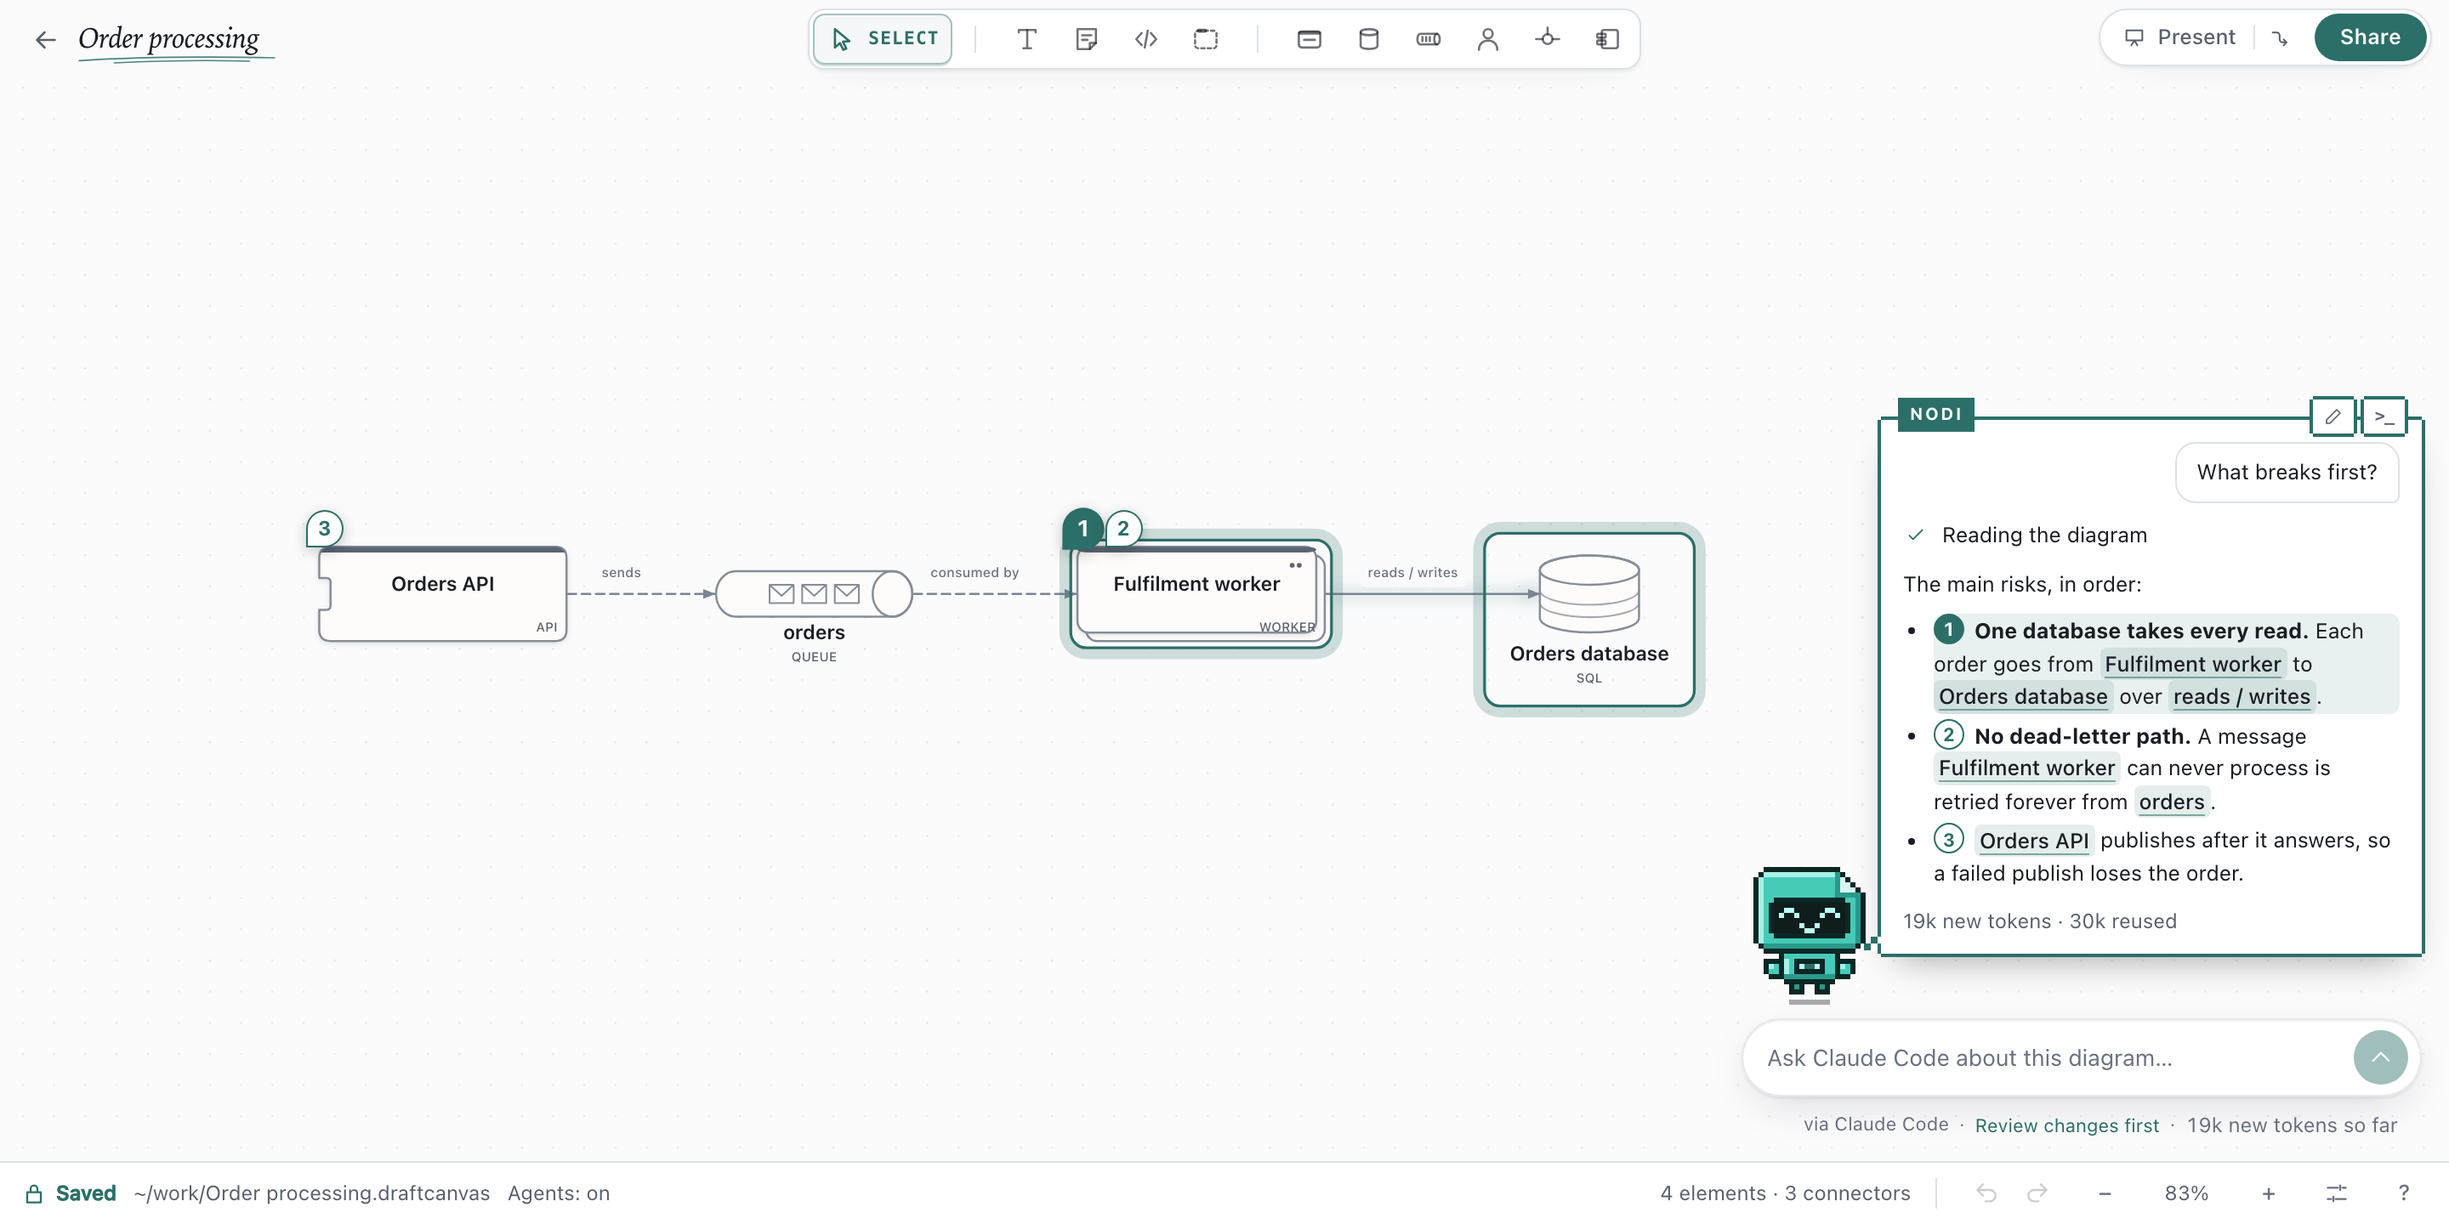
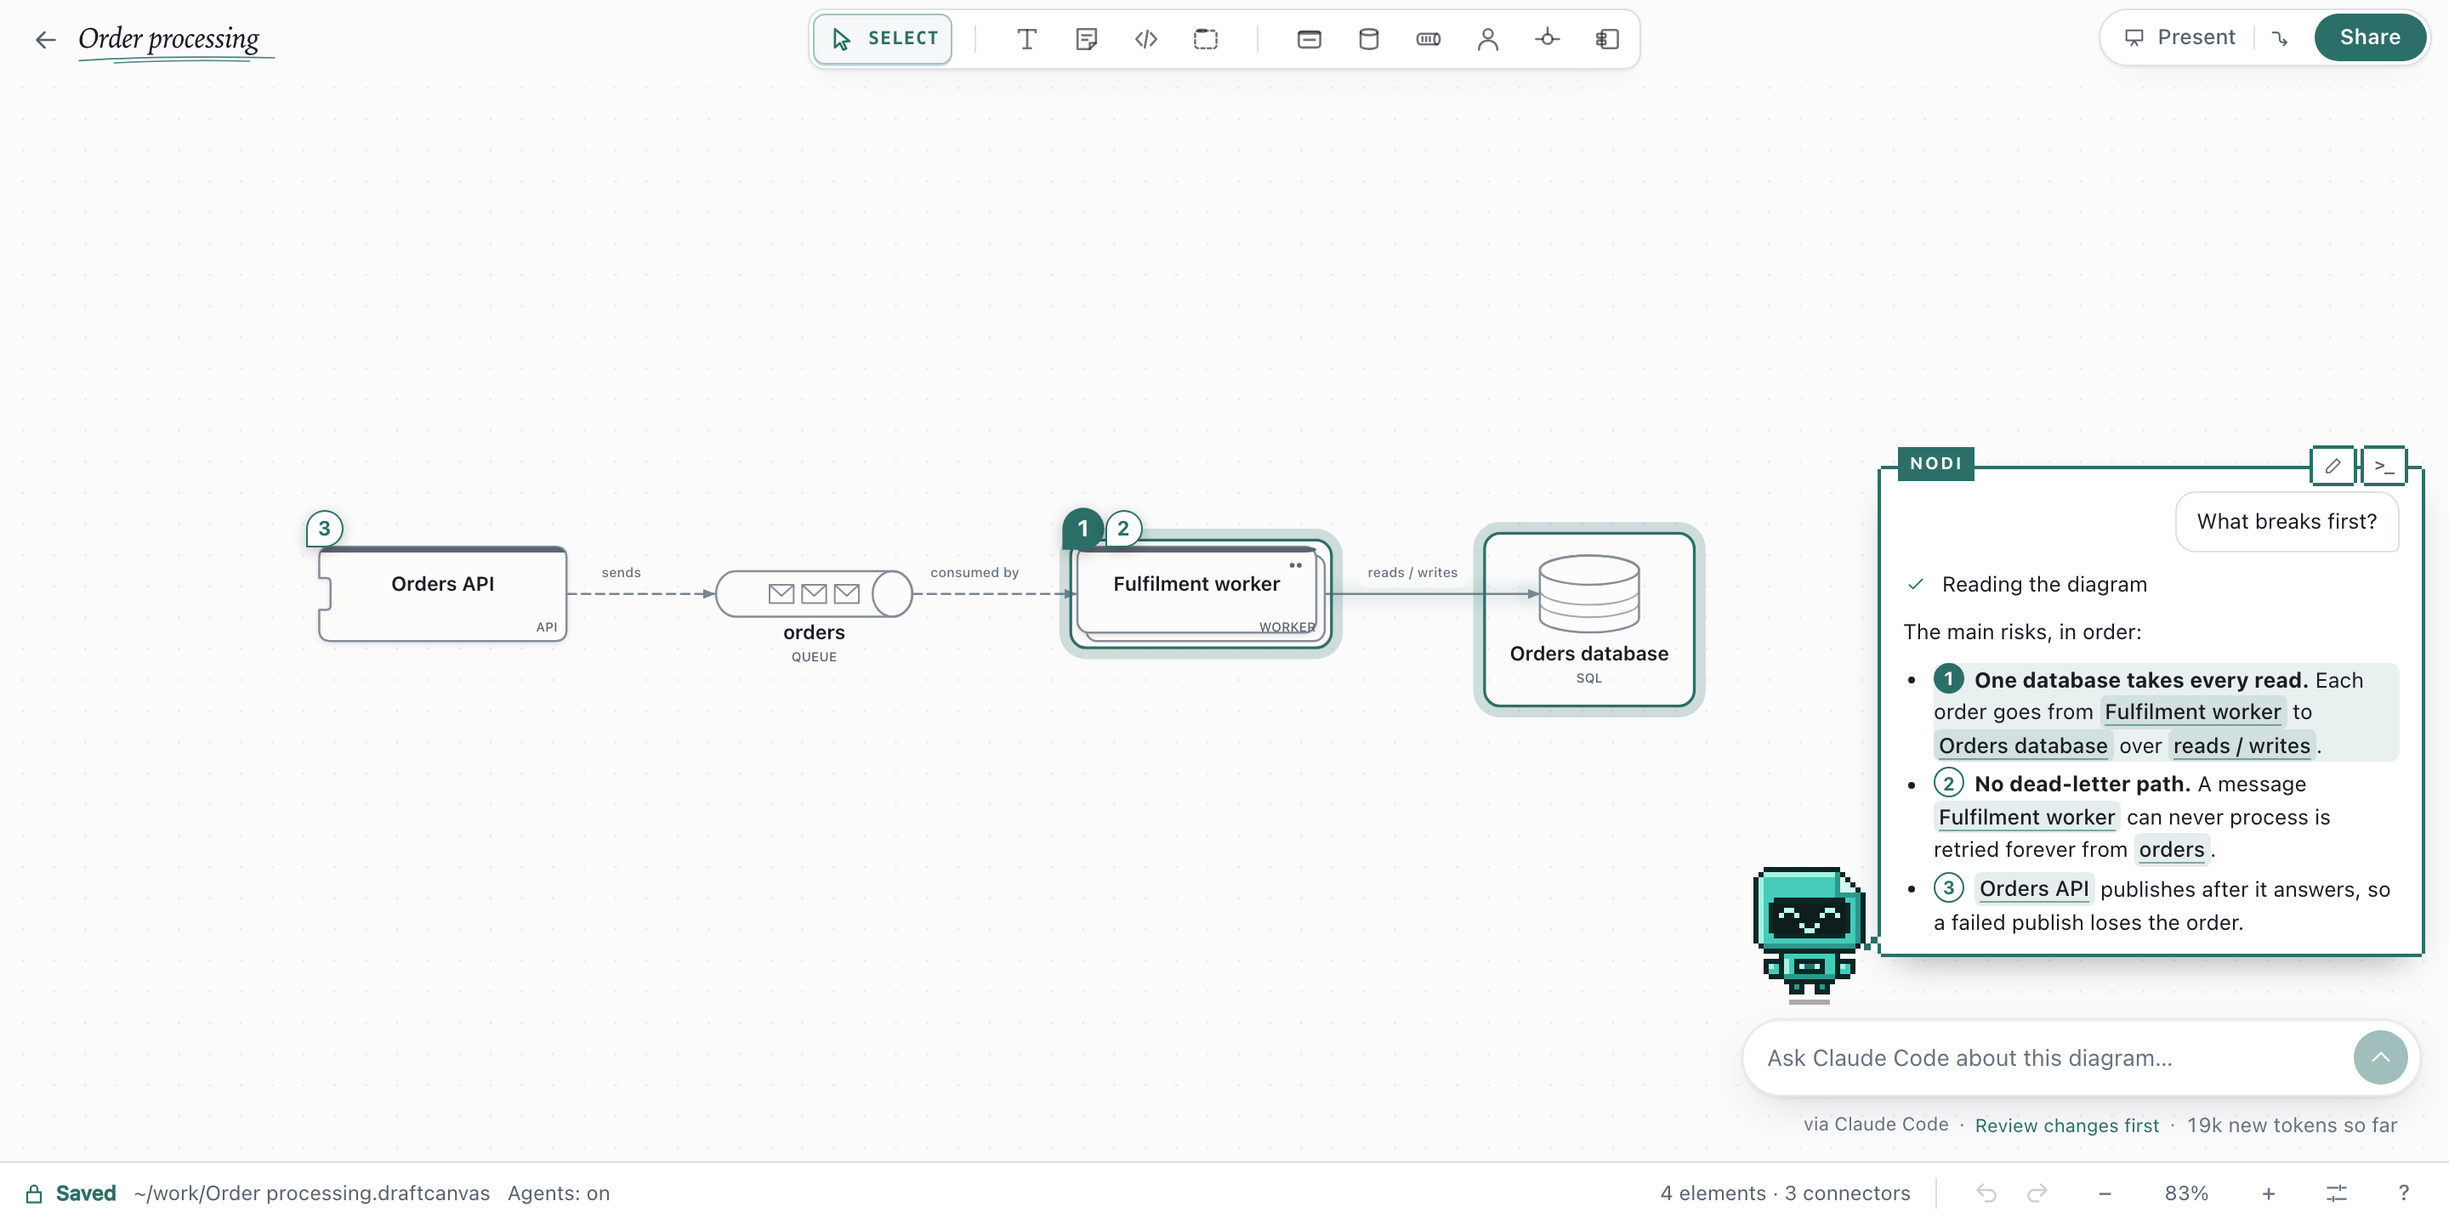
Show Nodi's token use once, and its conversation actions after an answer
The conversation's running total under the message box is the one token
line; the per-turn line in the bubble only repeated it. Its tooltip says
what cached re-reads are: billed at a discount, not free, and still counted
toward a plan's usage ("reused" read as free).

New conversation and Continue in Terminal appear once the agent has answered
and not while it works: before that, two disabled icons only drew the eye.

Changed region(s): [[0.7812, 0.4688, 0.9688, 0.7812], [0.875, 0.3125, 1.0, 0.4375], [0.75, 0.3125, 0.8125, 0.4062]]

diff --git a/src/desktop/ui/Companion.tsx b/src/desktop/ui/Companion.tsx
@@ -10,7 +10,7 @@ import type { DraftEdge, DraftNode } from '../../document/types';
 import { useEditorStore } from '../../store/editorStore';
 import { useUiStore } from '../../store/uiStore';
 import type { AgentInfo, ApplyMode, PromptRequest, Proposal } from '../api';
-import { companion, newTokens, numberedBlocks, replyBlocks, replyOf, replyPoints, spentOn, stepText, stopMessage, tokenCount, usageText, type ReplyEntry, type Spent, type Turn } from '../companion';
+import { companion, newTokens, numberedBlocks, replyBlocks, replyOf, replyPoints, spentOn, stepText, stopMessage, tokenCount, type ReplyEntry, type Spent, type Turn } from '../companion';
 import { useDesktopController, useDesktopState } from '../useDesktop';
 import { Mascot } from './mascot/Mascot';
 import type { Mood } from './mascot/pixels';
@@ -441,16 +441,17 @@ export function Companion() {
           <span className="dc-companion-say-name" aria-hidden="true">
             Nodi
           </span>
-          {talking && (
+          {/* Once the agent has answered and while it isn't working: before that there is nothing to
+              start over or carry on, and two disabled icons only drew the eye. */}
+          {talking && !running && (
             <span className="dc-companion-speech-tools">
-              <button type="button" aria-label="New conversation" title="New conversation" disabled={running} onClick={() => void controller.companionForget(diagramId)}>
+              <button type="button" aria-label="New conversation" title="New conversation" onClick={() => void controller.companionForget(diagramId)}>
                 <Icon name="pencil" />
               </button>
               <button
                 type="button"
                 aria-label="Continue in Terminal"
                 title={`Continue in Terminal: copies a command that reopens this conversation in ${agentName}`}
-                disabled={running}
                 onClick={() => void continueInTerminal()}
               >
                 <span className="dc-companion-prompt" aria-hidden="true">
@@ -497,7 +498,7 @@ export function Companion() {
                   </button>
                 )}
                 {turns.slice(folded).map((turn) => (
-                  <TurnView key={turn.runId} turn={turn} showsCost={showsCost} pinned={turn === last} />
+                  <TurnView key={turn.runId} turn={turn} pinned={turn === last} />
                 ))}
               </section>
               {continued && (
@@ -609,7 +610,7 @@ export function Companion() {
 }
 
 /** What the mascot says about the latest turn: the step it is on, then its reply as it streams in. */
-function TurnView({ turn, showsCost, pinned }: { turn: Turn; showsCost: boolean; pinned: boolean }) {
+function TurnView({ turn, pinned }: { turn: Turn; pinned: boolean }) {
   const reply = replyOf(turn);
   const stopped = stopMessage(turn.stop);
   return (
@@ -641,9 +642,6 @@ function TurnView({ turn, showsCost, pinned }: { turn: Turn; showsCost: boolean;
         </p>
       )}
       {turn.outcome === 'rejected' && <p className="dc-companion-stopped">Rejected. The diagram is unchanged.</p>}
-      {(turn.usage || (showsCost && turn.costMicroUsd !== null)) && (
-        <p className="dc-companion-cost">{[turn.usage && usageText(turn.usage), showsCost && turn.costMicroUsd !== null && dollars(turn.costMicroUsd)].filter(Boolean).join(' · ')}</p>
-      )}
     </article>
   );
 }
@@ -655,7 +653,13 @@ function SpentLine({ spent, showsCost }: { spent: Spent; showsCost: boolean }) {
   const fresh = tokenCount(newTokens(spent.usage));
   const cost = showsCost && spent.costMicroUsd !== null ? dollars(spent.costMicroUsd) : null;
   const turns = spent.turns === 1 ? '1 turn' : `${spent.turns} turns`;
-  const detail = `This conversation so far: ${fresh} new tokens over ${turns}${cached > 0 ? `, plus ${tokenCount(cached)} the agent read again from the cache (its instructions, the tools, the diagram, resent with every step), which costs about a tenth as much` : ''}.`;
+  // One line for the conversation, under the message box; a per-turn line in the bubble only said it
+  // again. What it leaves out, the cached re-reads, is told here as what it is: discounted, not free.
+  const detail =
+    `This conversation so far: ${fresh} new tokens over ${turns}.` +
+    (cached > 0
+      ? ` The agent also re-sent ${tokenCount(cached)} tokens it had already read (its instructions, the tools, the diagram), served from its provider's cache. Those are billed at a discount (about a tenth of the usual price with Claude), not free, and still count toward a plan's usage.`
+      : ''); 
   return (
     <span className="dc-companion-spent" title={detail}>
       <span className="dc-sr-only">{detail}</span>

diff --git a/tests/desktop/companion-ui.test.tsx b/tests/desktop/companion-ui.test.tsx
@@ -196,8 +196,10 @@ describe('the companion', () => {
       companion.apply('r1', { type: 'tool-call', id: 't1', tool: 'read_diagram', status: 'in-progress' });
     });
     expect(screen.getByRole('img', { name: 'Nodi, working' })).toBeTruthy();
-    // The bubble shows the turn as it goes: each step the agent takes.
+    // The bubble shows the turn as it goes: each step the agent takes, and no conversation actions yet.
     expect(screen.getByText('Reading the diagram')).toBeTruthy();
+    expect(screen.queryByRole('button', { name: 'New conversation' })).toBeNull();
+    expect(screen.queryByRole('button', { name: 'Continue in Terminal' })).toBeNull();
     fireEvent.click(screen.getByRole('button', { name: 'Stop' }));
     expect(controller.companionCancel).toHaveBeenCalledWith('r1');
 
@@ -210,6 +212,8 @@ describe('the companion', () => {
     // Advice reads as a list, with emphasis, never as raw markup.
     expect(screen.getAllByRole('listitem').map((li) => li.textContent)).toEqual(expect.arrayContaining(['Cache-aside: reads first', 'Invalidate on write']));
     expect(screen.getByText('Cache-aside').tagName).toBe('STRONG');
+    // Answered: now there is a conversation to start over or carry on.
+    expect(screen.getByRole('button', { name: 'New conversation' })).toBeTruthy();
     expect(screen.getByRole('img', { name: 'Nodi, waiting for you' })).toBeTruthy();
     expect(screen.getByRole('region', { name: 'Conversation with Claude Code' }).textContent).toMatch(/shown on the canvas/);
     await settle();
@@ -229,11 +233,12 @@ describe('the companion', () => {
     const total = document.querySelector('.dc-companion-spent')!;
     // What the conversation added: everything less what the agent read again from the cache.
     expect(total.textContent).toContain('33k new tokens so far');
-    expect(total.getAttribute('title')).toMatch(/33k new tokens over 2 turns, plus 76k the agent read again from the cache/);
+    expect(total.getAttribute('title')).toMatch(/33k new tokens over 2 turns\. The agent also re-sent 76k tokens it had already read/);
     // Signed in with a subscription: tokens, never a dollar figure that isn't what they pay.
     expect(total.textContent).not.toContain('$');
-    const lines = [...document.querySelectorAll('.dc-companion-turn .dc-companion-cost')].map((p) => p.textContent);
-    expect(lines).toEqual(['31k new tokens · 30k reused', '2.5k new tokens · 46k reused']);
+    // One line for it, not one per turn as well; the cache's share is explained, not hidden or made free.
+    expect(screen.getByRole('region', { name: 'Conversation with Claude Code' }).textContent).not.toMatch(/tokens/);
+    expect(total.getAttribute('title')).toMatch(/billed at a discount .*not free/);
   });
 
   it('shows the conversation whole in the bubble, folding all but the last two turns once it is long', async () => {

diff --git a/tests/desktop/companion.test.ts b/tests/desktop/companion.test.ts
@@ -1,6 +1,6 @@
 import { beforeEach, describe, expect, it } from 'vitest';
 import type { RunEvent } from '../../src/desktop/api';
-import { applyRunEvent, companion, newTokens, newTurn, numberedBlocks, partsIn, replyBlocks, replyOf, replyPoints, spentOn, stepText, stopMessage, tokenCount, usageText } from '../../src/desktop/companion';
+import { applyRunEvent, companion, newTokens, newTurn, numberedBlocks, partsIn, replyBlocks, replyOf, replyPoints, spentOn, stepText, stopMessage, tokenCount } from '../../src/desktop/companion';
 import { frame, HEIGHT, ROWS, WIDTH } from '../../src/desktop/ui/mascot/pixels';
 import { createHarness } from './harness';
 
@@ -177,8 +177,6 @@ describe('what a conversation uses', () => {
   it('reads at a glance', () => {
     expect([640, 4_800, 4_000, 48_169, 999_999, 1_200_000, 3_000_000].map(tokenCount)).toEqual(['640', '4.8k', '4k', '48k', '1M', '1.2M', '3M']);
     // What the turn added leads; the cached repeat of its context follows.
-    expect(usageText({ input: 60_953, cached: 30_392, output: 114 })).toBe('31k new tokens · 30k reused');
-    expect(usageText({ input: 900, cached: 0, output: 40 })).toBe('940 new tokens');
     expect(newTokens({ input: 507_000, cached: 494_000, output: 1_000 })).toBe(14_000);
   });
 });

diff --git a/src/desktop/companion.ts b/src/desktop/companion.ts
@@ -149,18 +149,14 @@ export function tokenCount(count: number): string {
 /**
  * What a turn really added: everything it read and wrote, less what it read again from the cache. A
  * turn is many model calls, one per step, and each resends the whole context (the brief, the tools,
- * the diagram, the conversation); the cache serves that repeat at about a tenth of the price, so a
+ * the diagram, the conversation); the cache serves that repeat at a discount (about a tenth of the price
+ * with Claude), so a
  * total that counts it reads as many times what the turn cost.
  */
 export function newTokens(usage: Usage): number {
   return Math.max(0, usage.input + usage.output - usage.cached);
 }
 
-/** "14k new tokens · 494k reused": what the turn added first, the cached repeat after it. */
-export function usageText(usage: Usage): string {
-  const fresh = `${tokenCount(newTokens(usage))} new tokens`;
-  return usage.cached > 0 ? `${fresh} · ${tokenCount(usage.cached)} reused` : fresh;
-}
 
 /** One event folded into its turn. Pure: the same turn and event always give the same result. */
 export function applyRunEvent(turn: Turn, event: RunEvent): Turn {

diff --git a/e2e/desktop/companion.spec.ts b/e2e/desktop/companion.spec.ts
@@ -176,7 +176,7 @@ test('asks about the selection, follows the run in the bubble, and accepts its p
   await expect(speech).toContainText('Added to the diagram');
   // The whole exchange is there, with no toggle to find it.
   await expect(page.getByRole('region', { name: 'Conversation with Claude Code' })).toContainText('Put a cache in front of this');
-  await expect(page.getByRole('region', { name: 'Conversation with Claude Code' })).toContainText('31k new tokens · 30k reused');
+  await expect(page.locator('.dc-companion-spent')).toContainText('31k new tokens so far');
   await page.screenshot({ path: test.info().outputPath('companion-thread.png') });
   await expect(review).toHaveCount(0);
   await page.screenshot({ path: test.info().outputPath('companion-accepted.png') });

diff --git a/src/desktop/ui/desktop.css b/src/desktop/ui/desktop.css
@@ -1689,8 +1689,7 @@
   font-size: 12px;
 }
 
-.dc-companion-stopped,
-.dc-companion-cost {
+.dc-companion-stopped {
   margin: 0;
   font-size: 13px;
   line-height: 1.55;
@@ -1698,8 +1697,7 @@
   overflow-wrap: anywhere;
 }
 
-.dc-companion-stopped,
-.dc-companion-cost {
+.dc-companion-stopped {
   color: var(--dc-text-muted);
   font-size: 12px;
 }
@@ -2262,16 +2260,11 @@
     2px 0 0 0 var(--dc-say-line);
 }
 
-.dc-companion-speech-tools button:hover:not(:disabled),
+.dc-companion-speech-tools button:hover,
 .dc-companion-speech-tools button:focus-visible {
   background: var(--dc-say-line);
   color: var(--dc-canvas);
   outline: none;
-}
-
-.dc-companion-speech-tools button:disabled {
-  opacity: 0.45;
-  cursor: default;
 }
 
 .dc-companion-speech-tools svg {

diff --git a/docs/reference/agent-companion-plan.md b/docs/reference/agent-companion-plan.md
@@ -485,7 +485,7 @@ Agreed on 2026-10-24, before building.
 | Proposal or direct by default? | **Proposal first.** **Apply directly** is a preference (`companion.apply`). | The broker refuses `update_diagram` for runs in proposal mode ([step 4](#how-a-prompt-travels)). |
 | Quick drafts | **Ask to save first.** | No new path for agent edits. The card shows **Save to a folder first**, then **Allow agents in this folder** if needed. |
 | Cost line | **Only with API-key sign-in.** | Shown when `claude auth status --json` reports an API-key `authMethod`; hidden on subscriptions. The cost comes from `result.total_cost_usd`. |
-| Token count | **Always, per conversation.** | The person's own plan or key pays for every turn, and a subscription's limits follow tokens, so the bubble shows the conversation's running total of new tokens ("33k new tokens so far") and the thread each turn's ("14k new tokens · 494k reused"). A turn is many model calls, one per step, each resending the whole context (brief, tools, diagram, conversation); the cache serves that repeat at about a tenth of the price. Counting it in the headline made one turn read as 508k tokens when 14k were new, so new tokens (everything read and written, less the cached reads) lead and the reused share follows; the tooltip has both. `RunEvent::Stopped.usage`; turns dropped past 20 still count; a new conversation starts over. |
+| Token count | **Always, per conversation.** | The person's own plan or key pays for every turn, and a subscription's limits follow tokens, so the line under the message box shows the conversation's running total of new tokens ("33k new tokens so far"), once: a per-turn line in the bubble as well only repeated it. A turn is many model calls, one per step, each resending the whole context (brief, tools, diagram, conversation); the cache serves that repeat at about a tenth of the price. Counting it in the headline made one turn read as 508k tokens when 14k were new, so new tokens (everything read and written, less the cached reads) are the number shown, and the tooltip says what the cached re-reads are: discounted, not free, and still counted toward a plan's usage. `RunEvent::Stopped.usage`; turns dropped past 20 still count; a new conversation starts over. |
 | Transcripts | **Keep them and say where.** | No `--no-session-persistence`. The docs and the card's menu name the folder from `projectsDirectory` in `claude auth status --json`. |
 | Sign-in from environment variables | **Document it** (default, not discussed). | A GUI app does not see `ANTHROPIC_API_KEY` from a shell profile. The docs say to sign in with `claude` or set the key where GUI apps see it. Importing the login shell's environment can come later. |
 

diff --git a/docs/guides/connect-an-ai-agent.md b/docs/guides/connect-an-ai-agent.md
@@ -67,8 +67,9 @@ switches to **Apply changes directly**, where changes land at once and Undo take
   this one diagram and nothing else: no shell, no file access, no other MCP servers, no hooks.
 - **Two agents:** with both installed, the name under the message box switches between them. Each
   diagram keeps one conversation per agent; the pencil starts over.
-- **What it uses:** the line under the message box shows the conversation's new tokens; each turn
-  shows its own, and how much the agent re-read from its cache (cheaper). With an API key, the cost too.
+- **What it uses:** the line under the message box shows the conversation's new tokens, and with an
+  API key its cost. Hover it to see what the agent also re-sent from its provider's cache each step:
+  billed at a discount (about a tenth of the usual price with Claude), not free.
 - **Where conversations are kept:** the agent's own sessions (`~/.claude/projects`,
   `~/.codex/sessions`). Draft Canvas keeps the conversation shown only while the app runs.
 
